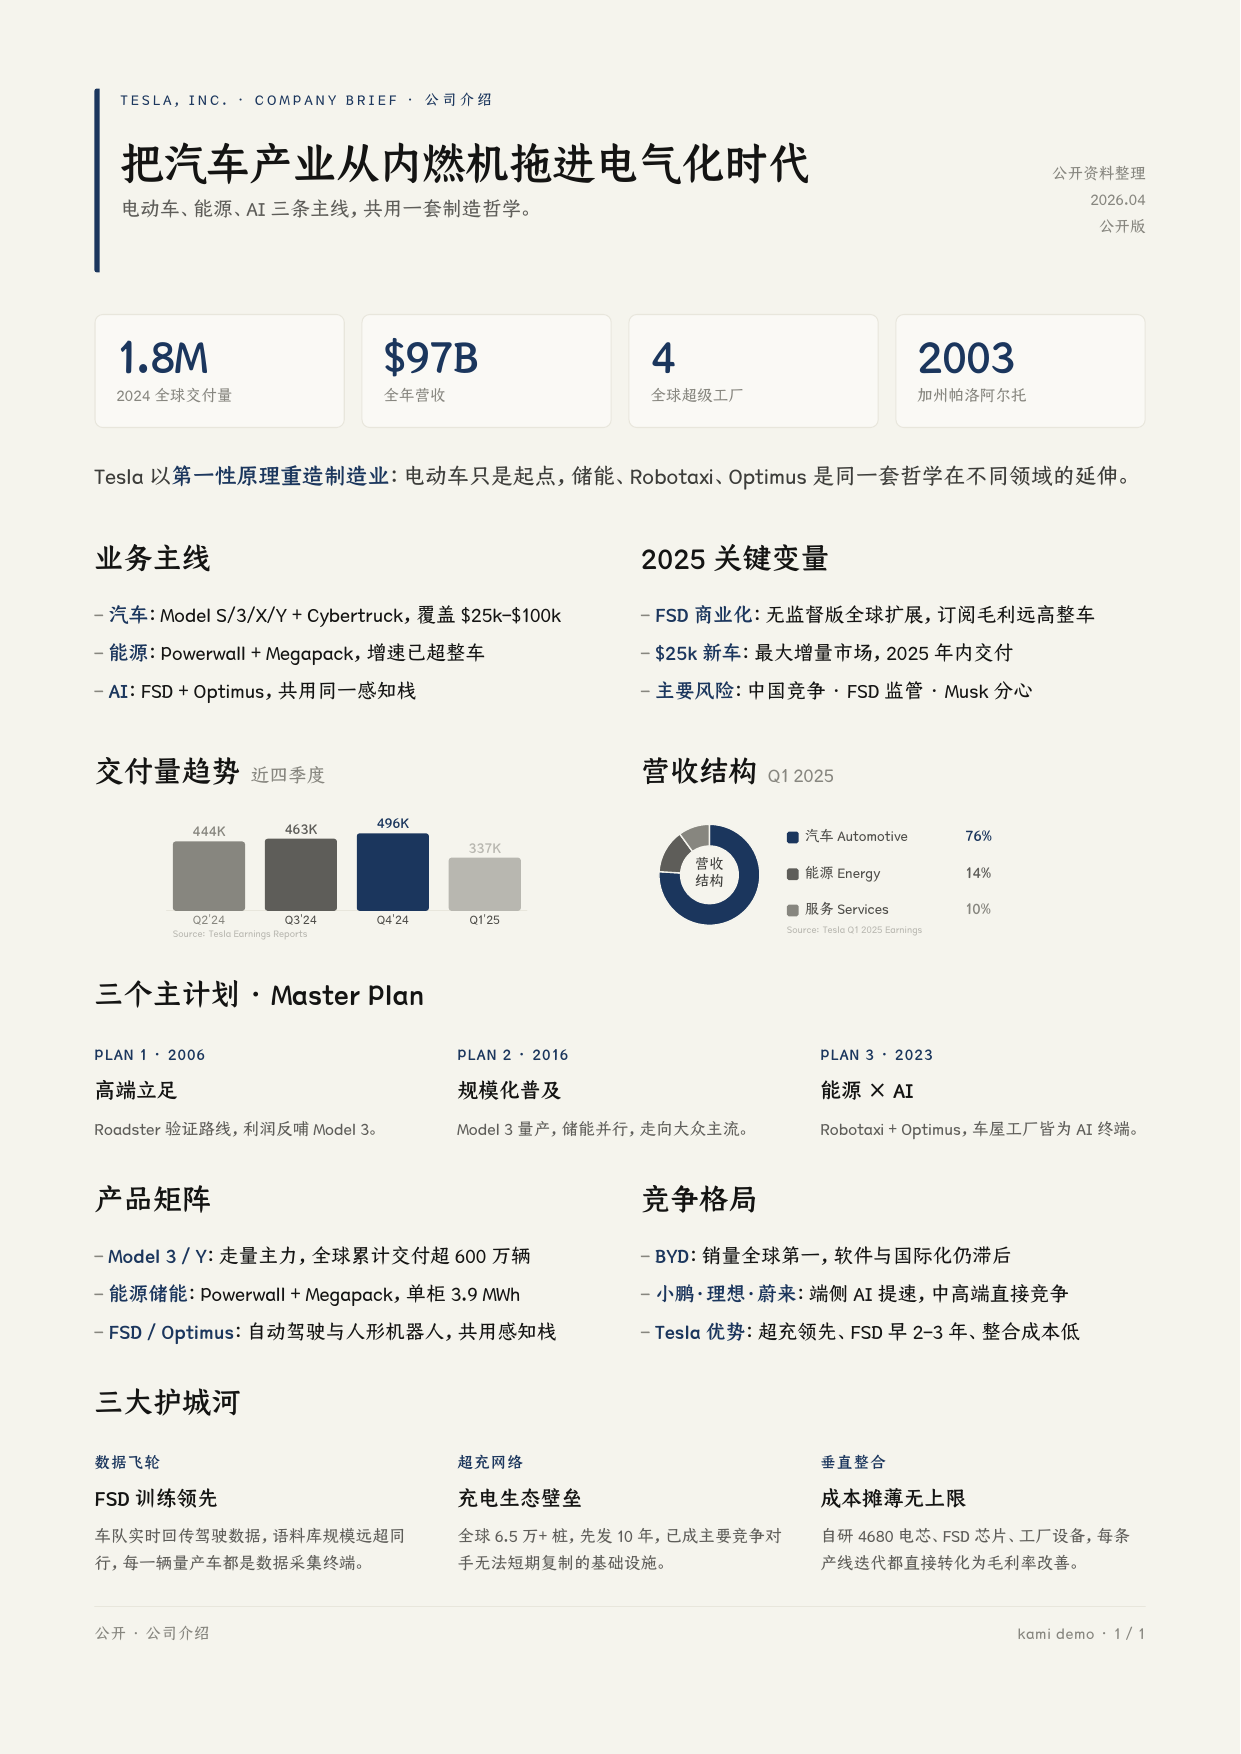
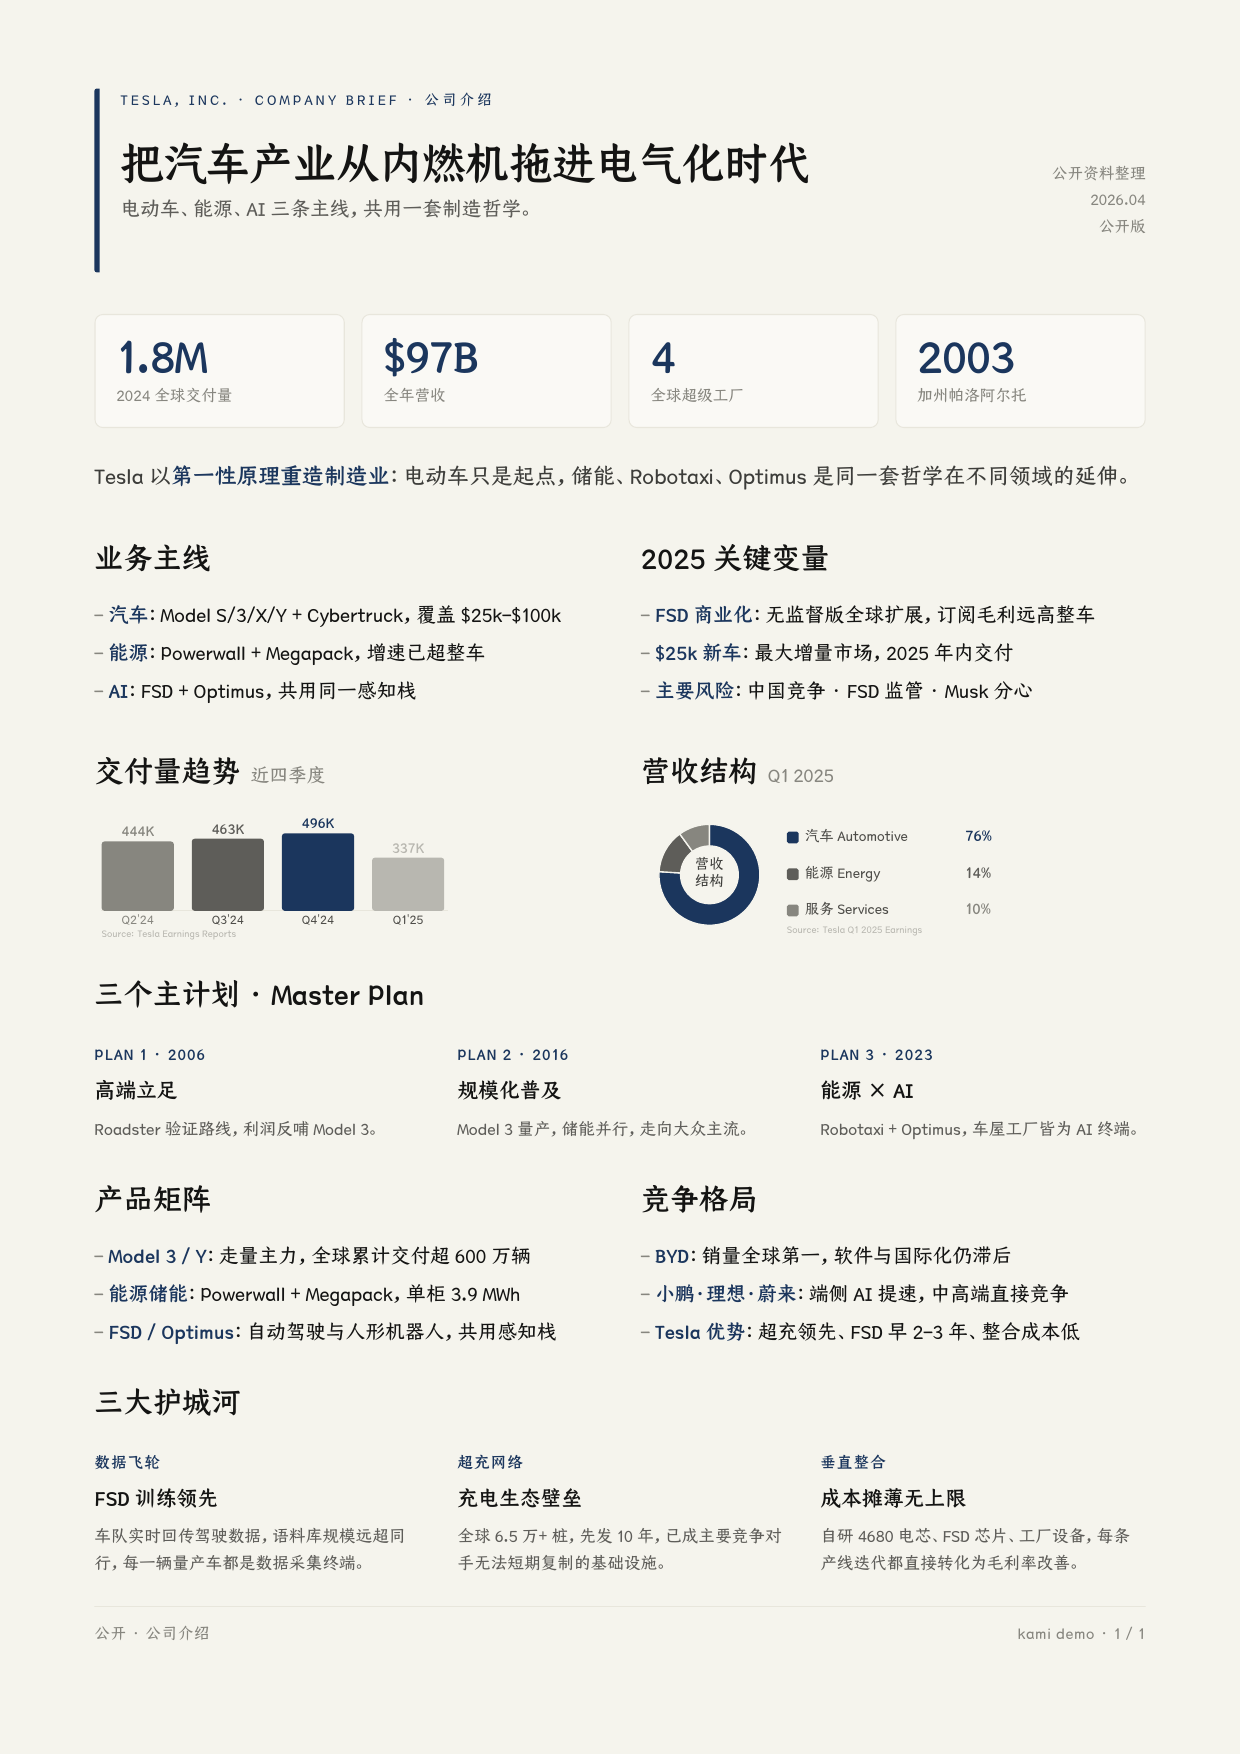
fix: left-align bar chart bars and source label in Tesla demo

Changed region(s): [[0.0612, 0.4618, 0.4287, 0.5234]]

diff --git a/assets/demos/demo-tesla.html b/assets/demos/demo-tesla.html
@@ -301,25 +301,25 @@
     <figure class="chart">
       <svg viewBox="0 0 560 140" width="100%" style="display:block;" xmlns="http://www.w3.org/2000/svg">
         <!-- Baseline -->
-        <line x1="80" y1="108" x2="480" y2="108" stroke="#e8e6dc" stroke-width="0.8"/>
+        <line x1="8" y1="108" x2="392" y2="108" stroke="#e8e6dc" stroke-width="0.8"/>
         <!-- Q2 2024: 444K -->
-        <rect x="87" y="31" width="80" height="77" rx="3" fill="#87867f"/>
-        <text x="127" y="26" text-anchor="middle" font-size="16" font-weight="bold" font-family="'TsangerJinKai02','Source Han Serif SC','Noto Serif CJK SC','Songti SC',Georgia,serif" fill="#87867f">444K</text>
-        <text x="127" y="123" text-anchor="middle" font-size="14" font-family="'TsangerJinKai02','Source Han Serif SC','Noto Serif CJK SC','Songti SC',Georgia,serif" fill="#87867f">Q2'24</text>
+        <rect x="8" y="31" width="80" height="77" rx="3" fill="#87867f"/>
+        <text x="48" y="26" text-anchor="middle" font-size="16" font-weight="bold" font-family="'TsangerJinKai02','Source Han Serif SC','Noto Serif CJK SC','Songti SC',Georgia,serif" fill="#87867f">444K</text>
+        <text x="48" y="123" text-anchor="middle" font-size="14" font-family="'TsangerJinKai02','Source Han Serif SC','Noto Serif CJK SC','Songti SC',Georgia,serif" fill="#87867f">Q2'24</text>
         <!-- Q3 2024: 463K -->
-        <rect x="189" y="28" width="80" height="80" rx="3" fill="#5e5d59"/>
-        <text x="229" y="23" text-anchor="middle" font-size="16" font-weight="bold" font-family="'TsangerJinKai02','Source Han Serif SC','Noto Serif CJK SC','Songti SC',Georgia,serif" fill="#5e5d59">463K</text>
-        <text x="229" y="123" text-anchor="middle" font-size="14" font-family="'TsangerJinKai02','Source Han Serif SC','Noto Serif CJK SC','Songti SC',Georgia,serif" fill="#4d4c48">Q3'24</text>
+        <rect x="108" y="28" width="80" height="80" rx="3" fill="#5e5d59"/>
+        <text x="148" y="23" text-anchor="middle" font-size="16" font-weight="bold" font-family="'TsangerJinKai02','Source Han Serif SC','Noto Serif CJK SC','Songti SC',Georgia,serif" fill="#5e5d59">463K</text>
+        <text x="148" y="123" text-anchor="middle" font-size="14" font-family="'TsangerJinKai02','Source Han Serif SC','Noto Serif CJK SC','Songti SC',Georgia,serif" fill="#4d4c48">Q3'24</text>
         <!-- Q4 2024: 496K (peak) -->
-        <rect x="291" y="22" width="80" height="86" rx="3" fill="#1B365D"/>
-        <text x="331" y="17" text-anchor="middle" font-size="16" font-weight="bold" font-family="'TsangerJinKai02','Source Han Serif SC','Noto Serif CJK SC','Songti SC',Georgia,serif" fill="#1B365D">496K</text>
-        <text x="331" y="123" text-anchor="middle" font-size="14" font-family="'TsangerJinKai02','Source Han Serif SC','Noto Serif CJK SC','Songti SC',Georgia,serif" fill="#4d4c48">Q4'24</text>
+        <rect x="208" y="22" width="80" height="86" rx="3" fill="#1B365D"/>
+        <text x="248" y="17" text-anchor="middle" font-size="16" font-weight="bold" font-family="'TsangerJinKai02','Source Han Serif SC','Noto Serif CJK SC','Songti SC',Georgia,serif" fill="#1B365D">496K</text>
+        <text x="248" y="123" text-anchor="middle" font-size="14" font-family="'TsangerJinKai02','Source Han Serif SC','Noto Serif CJK SC','Songti SC',Georgia,serif" fill="#4d4c48">Q4'24</text>
         <!-- Q1 2025: 337K (decline) -->
-        <rect x="393" y="49" width="80" height="59" rx="3" fill="#b8b7b0"/>
-        <text x="433" y="44" text-anchor="middle" font-size="16" font-weight="bold" font-family="'TsangerJinKai02','Source Han Serif SC','Noto Serif CJK SC','Songti SC',Georgia,serif" fill="#b8b7b0">337K</text>
-        <text x="433" y="123" text-anchor="middle" font-size="14" font-family="'TsangerJinKai02','Source Han Serif SC','Noto Serif CJK SC','Songti SC',Georgia,serif" fill="#4d4c48">Q1'25</text>
+        <rect x="308" y="49" width="80" height="59" rx="3" fill="#b8b7b0"/>
+        <text x="348" y="44" text-anchor="middle" font-size="16" font-weight="bold" font-family="'TsangerJinKai02','Source Han Serif SC','Noto Serif CJK SC','Songti SC',Georgia,serif" fill="#b8b7b0">337K</text>
+        <text x="348" y="123" text-anchor="middle" font-size="14" font-family="'TsangerJinKai02','Source Han Serif SC','Noto Serif CJK SC','Songti SC',Georgia,serif" fill="#4d4c48">Q1'25</text>
         <!-- Source -->
-        <text x="87" y="138" font-size="11" font-family="'TsangerJinKai02','Source Han Serif SC','Noto Serif CJK SC','Songti SC',Georgia,serif" fill="#b8b7b0">Source: Tesla Earnings Reports</text>
+        <text x="8" y="138" font-size="11" font-family="'TsangerJinKai02','Source Han Serif SC','Noto Serif CJK SC','Songti SC',Georgia,serif" fill="#b8b7b0">Source: Tesla Earnings Reports</text>
       </svg>
     </figure>
   </section>
